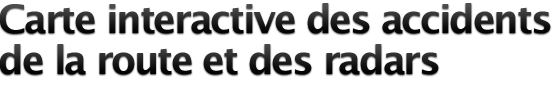
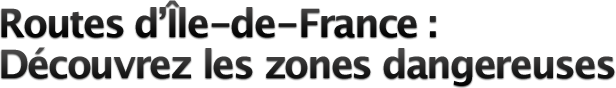
Change title + add new page

diff --git a/app/assets/stylesheets/navigation.css.sass b/app/assets/stylesheets/navigation.css.sass
@@ -39,7 +39,7 @@ a:active
     float: right
     height: 19px
     margin: 11px 15px 0 0
-    width: 395px
+    width: 417px
 
   .button
     background-position: 0 0
@@ -407,11 +407,11 @@ a:active
 
   .title
     background: image-url("source_title.png") 1px 0 no-repeat
-    height: 86px
+    height: 90px
     margin-left: 30px
     margin-top: 30px
     margin-bottom: 20px
-    width: 560px
+    width: 630px
 
   .subtitle
     color: black

diff --git a/config/routes.rb b/config/routes.rb
@@ -1,5 +1,6 @@
 RoutesDangereuses::Application.routes.draw do
 
+  match '/app' => 'navigation#index'
   # Radars
   match 'radars/list(.:format)' => 'radars#index'
   # Liste des accidents
@@ -56,7 +57,7 @@ RoutesDangereuses::Application.routes.draw do
 
   # You can have the root of your site routed with "root"
   # just remember to delete public/index.html.
-  root :to => 'navigation#index'
+  root :to => 'navigation#accueil'
 
   # See how all your routes lay out with "rake routes"
 

diff --git a/app/controllers/navigation_controller.rb b/app/controllers/navigation_controller.rb
@@ -1,4 +1,7 @@
 class NavigationController < ApplicationController
   def index
   end
+
+  def accueil
+  end
 end
